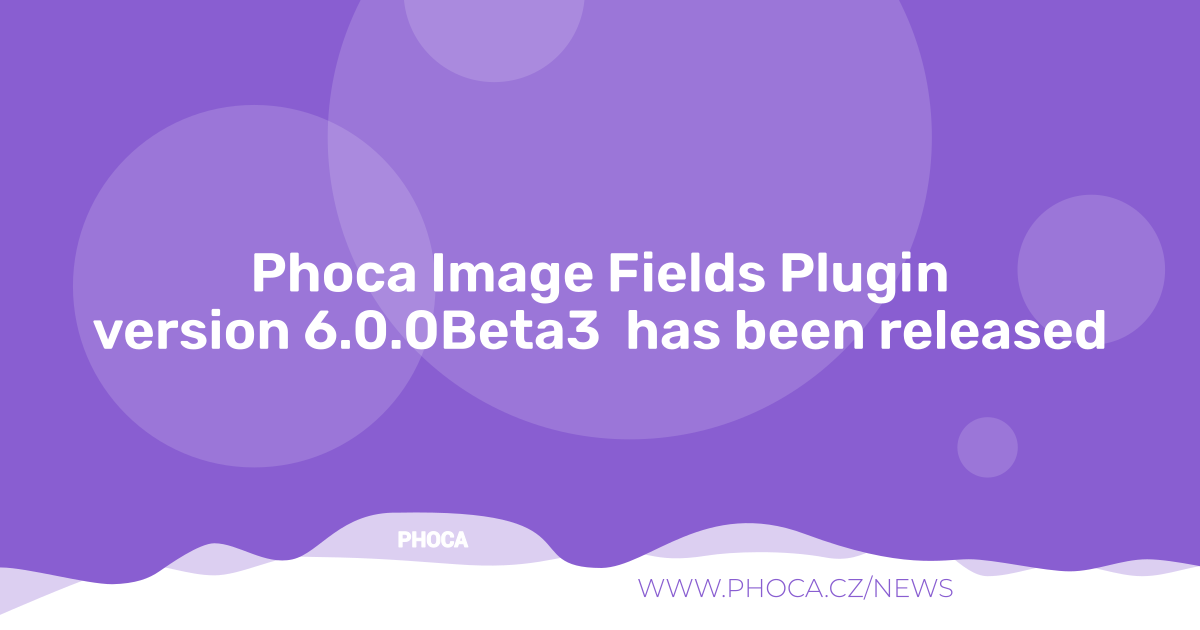
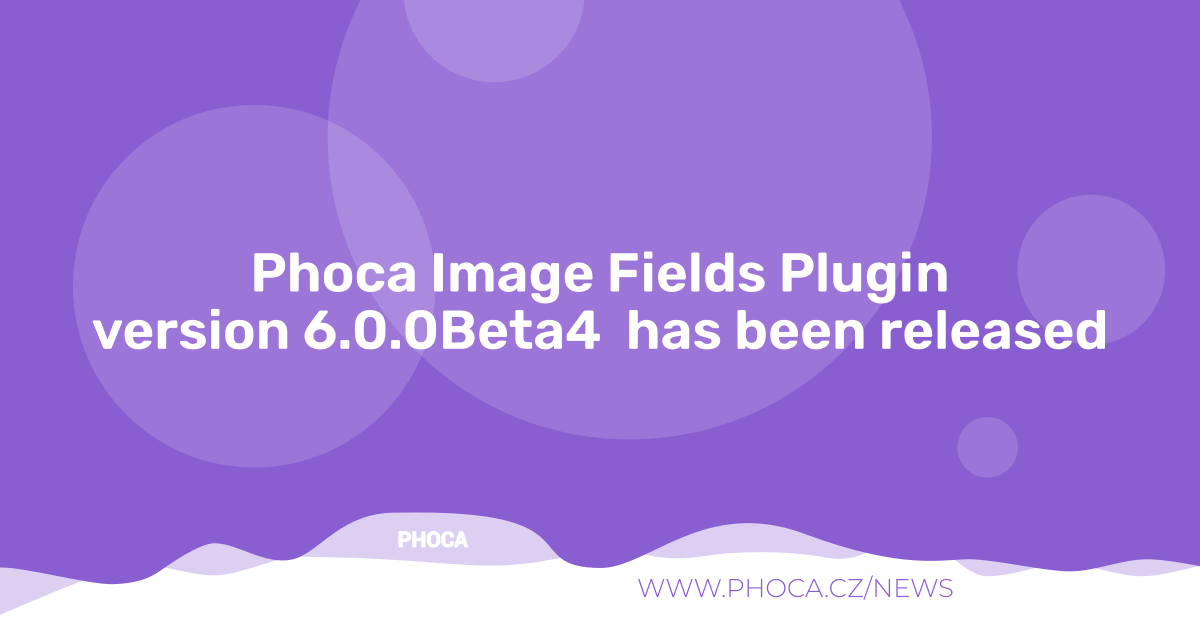
6.0.0Beta4

diff --git a/src/Extension/Phocaimage.php b/src/Extension/Phocaimage.php
@@ -281,19 +281,33 @@ final class Phocaimage extends FieldsPlugin implements SubscriberInterface
         $context = $event->getContext();
         $item    = $event->getItem();
         $isNew   = $event->getIsNew();
-        $data    = $event->getData();
 
         // Only process articles
         if ($context !== 'com_content.article' && $context !== 'com_content.form') {
             return;
         }
 
-        // Only process newly created articles
-        if (!$isNew || empty($item->id)) {
+        if (empty($item->id)) {
             return;
         }
 
-        $this->migrateTempFolder((int) $item->id);
+        if ($isNew) {
+            $this->migrateTempFolder((int) $item->id);
+        }
+
+        $title = $item->title ?? '';
+
+        // If title is not in item, we might need to get it from data or DB
+        if (empty($title)) {
+            $db = $this->getDatabase();
+            $query = $db->getQuery(true)
+                ->select($db->quoteName('title'))
+                ->from($db->quoteName('#__content'))
+                ->where($db->quoteName('id') . ' = ' . (int) $item->id);
+            $title = (string) $db->setQuery($query)->loadResult();
+        }
+
+        $this->syncArticleImage((int) $item->id, $title);
     }
 
     /**
@@ -817,5 +831,106 @@ final class Phocaimage extends FieldsPlugin implements SubscriberInterface
         $dates[$articleId] = $date ?: date('Y-m-d H:i:s');
 
         return $dates[$articleId];
+    }
+
+    /**
+     * Synchronize the first image from phocaimage field to article intro/full image.
+     *
+     * @param   int  $articleId  The article ID.
+     *
+     * @return  void
+     *
+     * @since   1.0.0
+     */
+    private function syncArticleImage(int $articleId, string $title = ''): void
+    {
+        $syncType = (int) $this->params->get('sync_article_image', 0);
+        if ($syncType === 0) {
+            return;
+        }
+
+        $db = $this->getDatabase();
+
+        // Get all phocaimage fields for this article
+        $query = $db->getQuery(true)
+            ->select($db->quoteName(['v.value']))
+            ->from($db->quoteName('#__fields_values', 'v'))
+            ->join('INNER', $db->quoteName('#__fields', 'f'), $db->quoteName('f.id') . ' = ' . $db->quoteName('v.field_id'))
+            ->where($db->quoteName('f.type') . ' = ' . $db->quote('phocaimage'))
+            ->where($db->quoteName('v.item_id') . ' = ' . $db->quote($articleId))
+            ->order($db->quoteName('f.ordering') . ' ASC');
+
+        $rows = $db->setQuery($query)->loadObjectList();
+
+        if (empty($rows)) {
+            return;
+        }
+
+        // We take the first phocaimage field that has images
+        $foundImages = [];
+        foreach ($rows as $row) {
+            if (empty($row->value)) {
+                continue;
+            }
+            $images = json_decode($row->value, true);
+            if (is_array($images) && !empty($images)) {
+                $foundImages = $images;
+                break;
+            }
+        }
+
+        if (empty($foundImages)) {
+            return;
+        }
+
+        $firstImage = $foundImages[0];
+        $filename   = $firstImage['filename'] ?? '';
+        if (empty($filename)) {
+            return;
+        }
+
+        // Construct path to large thumbnail
+        $uploadPath = $this->getPermanentPath($articleId);
+        $thumbPath  = $uploadPath . '/phoca_thumb_l_' . $filename;
+
+        // Update article record
+        $query = $db->getQuery(true)
+            ->select($db->quoteName('images'))
+            ->from($db->quoteName('#__content'))
+            ->where($db->quoteName('id') . ' = ' . $db->quote($articleId));
+        $imagesJson = $db->setQuery($query)->loadResult();
+
+        $articleImages = json_decode($imagesJson ?: '{}', true);
+        if (!is_array($articleImages)) {
+            $articleImages = [];
+        }
+
+        $changed = false;
+
+        // Intro Image sync - only if empty
+        if (($syncType === 1 || $syncType === 3) && empty($articleImages['image_intro'])) {
+            $articleImages['image_intro'] = $thumbPath;
+            if (!empty($title)) {
+                $articleImages['image_intro_alt'] = $title;
+            }
+            $changed = true;
+        }
+
+        // Full Image sync - only if empty
+        if (($syncType === 2 || $syncType === 3) && empty($articleImages['image_fulltext'])) {
+            $articleImages['image_fulltext'] = $thumbPath;
+            if (!empty($title)) {
+                $articleImages['image_fulltext_alt'] = $title;
+            }
+            $changed = true;
+        }
+
+        if ($changed) {
+            $query = $db->getQuery(true)
+                ->update($db->quoteName('#__content'))
+                ->set($db->quoteName('images') . ' = ' . $db->quote(json_encode($articleImages)))
+                ->where($db->quoteName('id') . ' = ' . $db->quote($articleId));
+            $db->setQuery($query)->execute();
+        }
     }
 }
